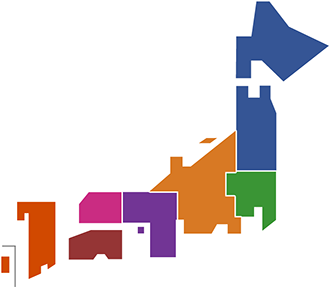
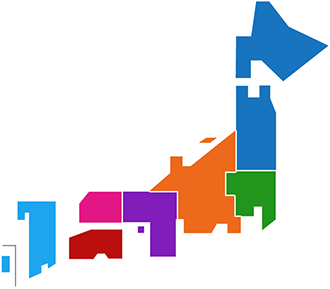
Map in SVG

diff --git a/src/scss/custom/components/_map.scss b/src/scss/custom/components/_map.scss
@@ -24,9 +24,10 @@
 
     @media screen and #{breakpoint(large)} {
       width: 752px;
+      height: 850px;
       max-width: 752px;
       margin: 0 auto;
-      padding: 0 0 200px;
+      padding: 0;
     }
   }
 
@@ -131,5 +132,115 @@
   &--textbox {
     border: 1px solid $color-grey;
     padding: 1rem;
+  }
+
+  // icon
+  &--icon {
+    position: absolute;
+    stroke: #fff;
+    stroke-width: 0.2;
+
+    &--holder {
+      position: relative;
+      text-align: center;
+      padding: 0 1rem;
+      margin: 0 auto;
+      width: 332px;
+      height: 370px;
+
+      @media screen and #{breakpoint(medium)} {
+        width: 582px;
+        height: 660px;
+      }
+
+      @media screen and #{breakpoint(large)} {
+        width: 752px;
+        height: 850px;
+        max-width: 752px;
+        margin: 0 auto;
+        padding: 0;
+      }
+    }
+
+    &.icon-japan-1 {
+      z-index: 100;
+      fill: $area-color-1;
+      height: 46%;
+      width: 40%;
+      top: 0;
+      right: -5%;
+    }
+
+    &.icon-japan-2 {
+      z-index: 90;
+      fill: $area-color-2;
+      stroke-width: 0.3;
+      height: 16.5%;
+      width: 16%;
+      top: 46%;
+      right: 15.99%;
+    }
+
+    &.icon-japan-3 {
+      z-index: 80;
+      fill: $area-color-3;
+      stroke-width: 0.3;
+      height: 28.7%;
+      width: 29%;
+      top: 34.4%;
+      right: 26.66%;
+    }
+
+    &.icon-japan-4 {
+      z-index: 90;
+      fill: $area-color-4;
+      stroke-width: 0.3;
+      height: 17.7%;
+      width: 17%;
+      top: 51.4%;
+      left: 36.2%;
+    }
+
+    &.icon-japan-5 {
+      z-index: 90;
+      fill: $area-color-5;
+      stroke-width: 0.3;
+      height: 8.2%;
+      width: 12.8%;
+      top: 51.5%;
+      left: 23.3%;
+    }
+
+    &.icon-japan-6 {
+      z-index: 90;
+      fill: $area-color-6;
+      stroke-width: 0.3;
+      height: 8.2%;
+      width: 16.8%;
+      top: 62%;
+      left: 21.4%;
+    }
+
+    &.icon-japan-7 {
+      z-index: 90;
+      fill: $area-color-7;
+      stroke-width: 0.3;
+      height: 21%;
+      width: 17%;
+      top: 55%;
+      left: 0;
+    }
+
+    &--link {
+      &:hover, &:active, &:focus {
+        & .icon-japan-1 { fill: darken($area-color-1, 10); }
+        & .icon-japan-2 { fill: darken($area-color-2, 10); }
+        & .icon-japan-3 { fill: darken($area-color-3, 10); }
+        & .icon-japan-4 { fill: darken($area-color-4, 10); }
+        & .icon-japan-5 { fill: darken($area-color-5, 10); }
+        & .icon-japan-6 { fill: darken($area-color-6, 10); }
+        & .icon-japan-7 { fill: darken($area-color-7, 10); }
+      }
+    }
   }
 }

diff --git a/src/scss/custom/_settings.scss b/src/scss/custom/_settings.scss
@@ -6,6 +6,7 @@ $mobile-medium: "screen and (max-width: 640px)";
 // Theming
 $color-theme-main: #ed6a1d;
 $color-theme-main-soft: #fdbc6a;
+$color-theme-main-medium: #f39800;
 $color-theme-main-lighter: lighten($color-theme-main, 40);
 $color-theme-main-light: lighten($color-theme-main, 5);
 $color-theme-main-dark: darken($color-theme-main, 10);
@@ -25,7 +26,7 @@ $color-red: #ce0004;
 $color-lighter-grey: #a1a1a1;
 $color-light-grey: #fdf1dd;
 $color-soft-grey: #fee0b9;
-$color-grey: #999;
+$color-grey: #858585;
 $color-darkGrey: #666;
 $color-black: #333;
 $color-white: #fff;
@@ -38,13 +39,13 @@ $color-light-green: #61ae17;
 
 
 // map area colours
-$area-color-1: #355595;
-$area-color-2: #3a9535;
-$area-color-3: #d87924;
-$area-color-4: #723595;
-$area-color-5: #ca2c82;
-$area-color-6: #953535;
-$area-color-7: #d14900;
+$area-color-1: #1974bf;
+$area-color-2: #22951c;
+$area-color-3: #ed6a1d;
+$area-color-4: #811dba;
+$area-color-5: #e21684;
+$area-color-6: #bb1010;
+$area-color-7: #1da6ed;
 
 
 // Fonts

diff --git a/src/scss/custom/components/_pagination.scss b/src/scss/custom/components/_pagination.scss
@@ -1,14 +1,14 @@
 %pagingElem {
   margin: 0 1px;
   padding: 6px 10px;
-  color: #999;
-  border: 1px solid #999;
+  color: $color-theme-main;
+  border: 1px solid $color-theme-main;
   text-decoration: none;
   border-radius: 3px;
 }
 
 %pagingElemHover {
-  background-color: #999;
+  background-color: $color-theme-main;
   color: #fff;
   text-decoration: none;
 }

diff --git a/src/scss/custom/components/_footer.scss b/src/scss/custom/components/_footer.scss
@@ -2,7 +2,7 @@
   // margin-top: 8rem;
   // padding: 2rem 0 0;
   border-top: 1px solid $color-light-grey;
-  background-color: $color-theme-main;
+  background-color: $color-theme-main-medium;
 
   	.copyright_row {
   		margin-top: 10px;

diff --git a/src/scss/custom/components/_title.scss b/src/scss/custom/components/_title.scss
@@ -5,7 +5,7 @@
   position: relative;
   margin: 0;
   color: $color-black;
-  border-bottom: 1px solid $color-theme-main;
+  border-bottom: 1px solid $color-grey;
   padding: 6px 6px;
   margin-left: 6px;
   margin-bottom: rem-calc(14px);

diff --git a/wp/wp-content/themes/happys/page-map.php b/wp/wp-content/themes/happys/page-map.php
@@ -12,7 +12,8 @@ get_header(); ?>
 			<div class="japan_map--area--holder row">
 
 				<div class="columns small-6 medium-4 japan_map--area area_1">
-					<a href="#" class="japan_map--area--title--link" title=""><h3 class="japan_map--area--title">北海道・東北</h3></a>
+					<a href="#" class="japan_map--area--title--link japan_map--icon--link" title=""><h3 class="japan_map--area--title">
+						北海道・東北</h3></a>
 					<ul class="japan_map--area--list row">
 						<li class="japan_map--area--listitem columns small-6"><a href="#">北海道</a></li>
 						<li class="japan_map--area--listitem columns small-6"><a href="#">青森</a></li>
@@ -104,6 +105,7 @@ get_header(); ?>
 
 			<!-- Map -->
 
+			<!--
 			<img class="japan_map--large" src="<?php echo get_template_directory_uri(); ?>/images/full-map.png" alt="Map of Japan" usemap="#japan_map" />
 			<map name="japan_map" id="japan_map">
 		    <area alt="" title="" href="#" shape="poly" coords="585,3,614,3,661,60,751,101,647,189,619,195,616,221,633,257,630,387,543,386,539,297,538,199,537,177,538,81,571,81" />
@@ -125,6 +127,33 @@ get_header(); ?>
 		    <area alt="" title="" href="#" shape="poly" coords="123,231,123,260,108,261,104,256,99,256,93,261,68,259,68,239,91,231" />
 		    <area alt="" title="" href="#" shape="poly" coords="17,203,17,221,25,222,3,257,1,274,10,274,28,280,41,275,42,267,47,265,48,271,56,264,56,203" />
 			</map>
+			-->
+
+
+			<div class="japan_map--icon--holder">
+				<a class="japan_map--icon--link" href="">
+					<svg class="japan_map--icon icon-japan-1"><use xlink:href="#icon-japan-1"></use></svg>
+				</a>
+				<a class="japan_map--icon--link" href="">
+					<svg class="japan_map--icon icon-japan-2"><use xlink:href="#icon-japan-2"></use></svg>
+				</a>
+				<a class="japan_map--icon--link" href="">
+					<svg class="japan_map--icon icon-japan-3"><use xlink:href="#icon-japan-3"></use></svg>
+				</a>
+				<a class="japan_map--icon--link" href="">
+					<svg class="japan_map--icon icon-japan-4"><use xlink:href="#icon-japan-4"></use></svg>
+				</a>
+				<a class="japan_map--icon--link" href="">
+					<svg class="japan_map--icon icon-japan-5"><use xlink:href="#icon-japan-5"></use></svg>
+				</a>
+				<a class="japan_map--icon--link" href="">
+					<svg class="japan_map--icon icon-japan-6"><use xlink:href="#icon-japan-6"></use></svg>
+				</a>
+				<a class="japan_map--icon--link" href="">
+					<svg class="japan_map--icon icon-japan-7"><use xlink:href="#icon-japan-7"></use></svg>
+				</a>
+			</div>
+
 		</div>
 	</div>
 
